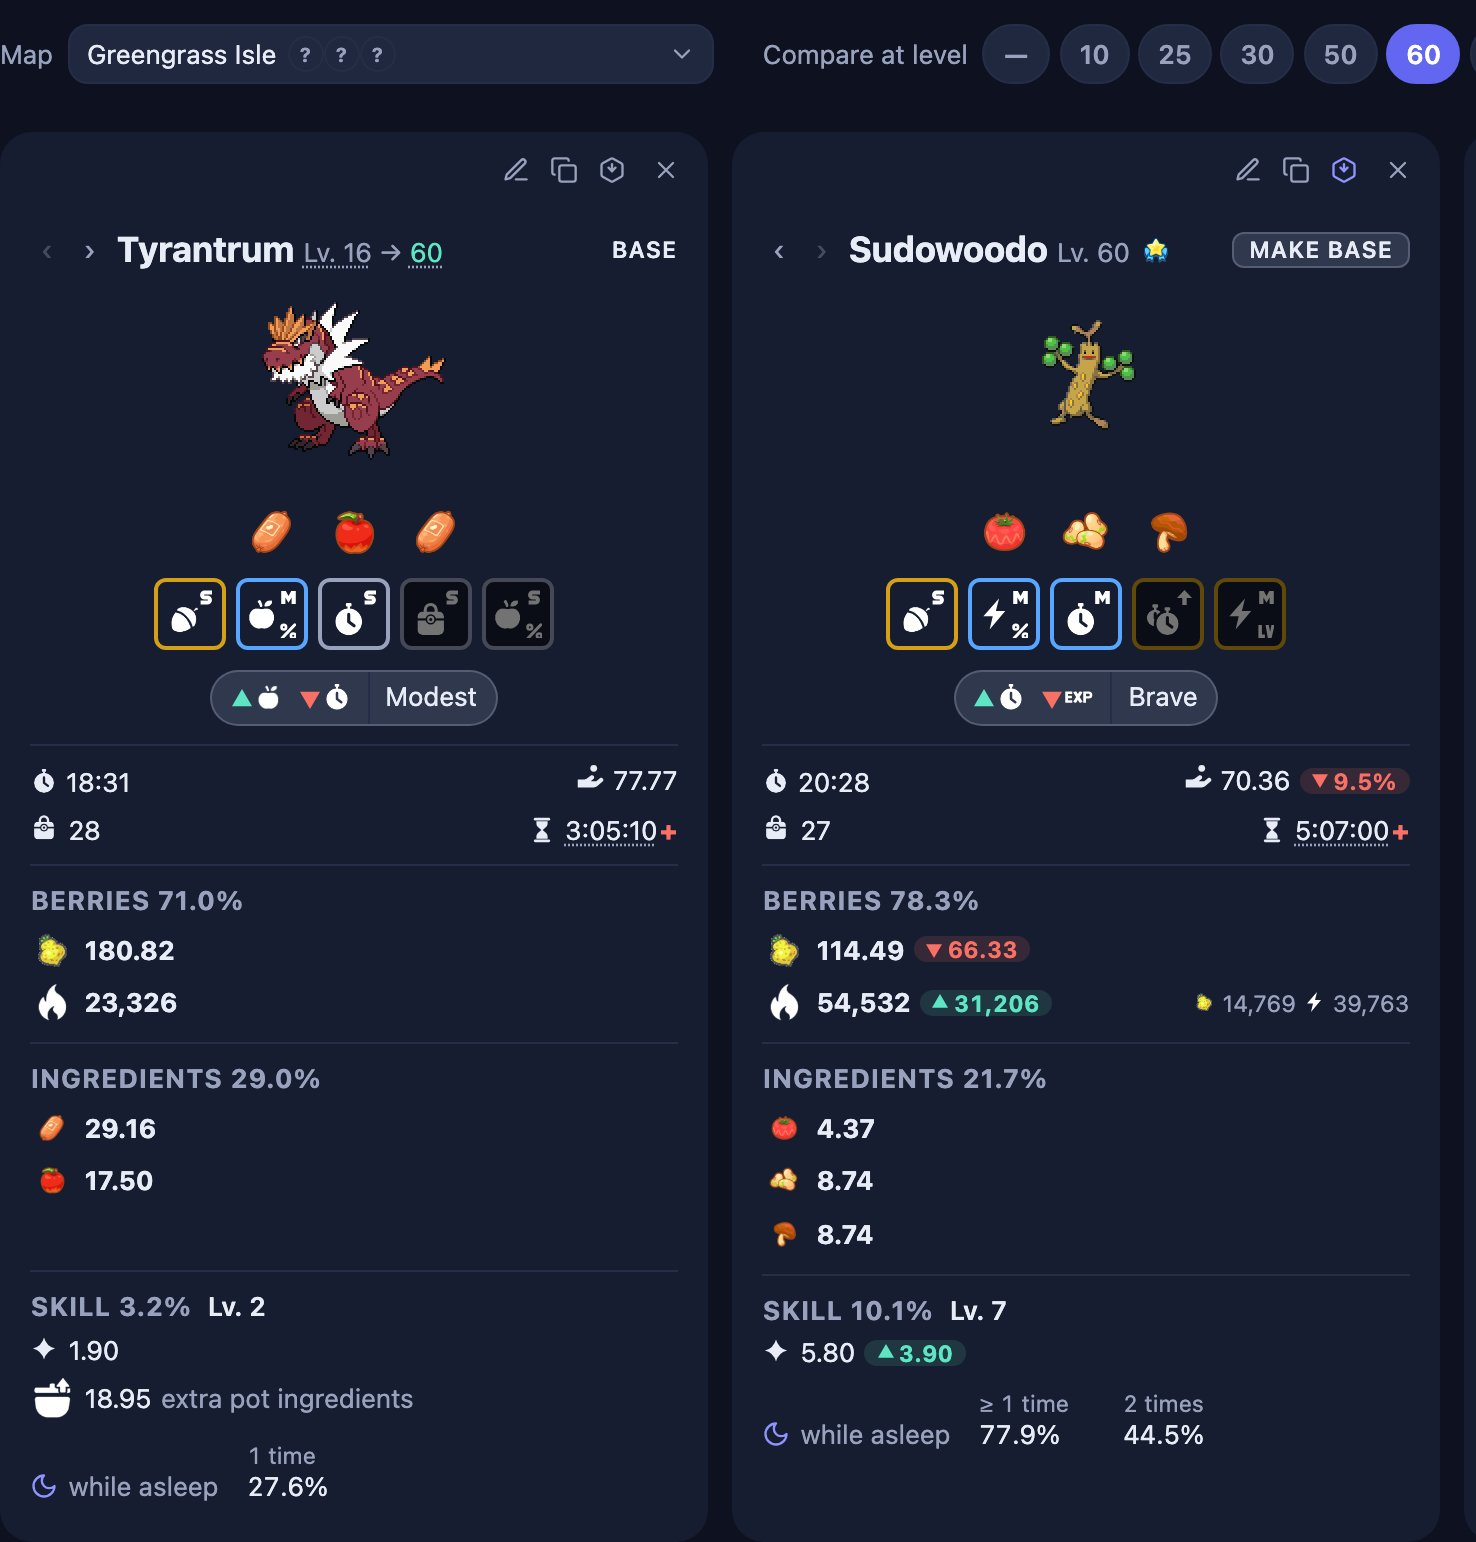
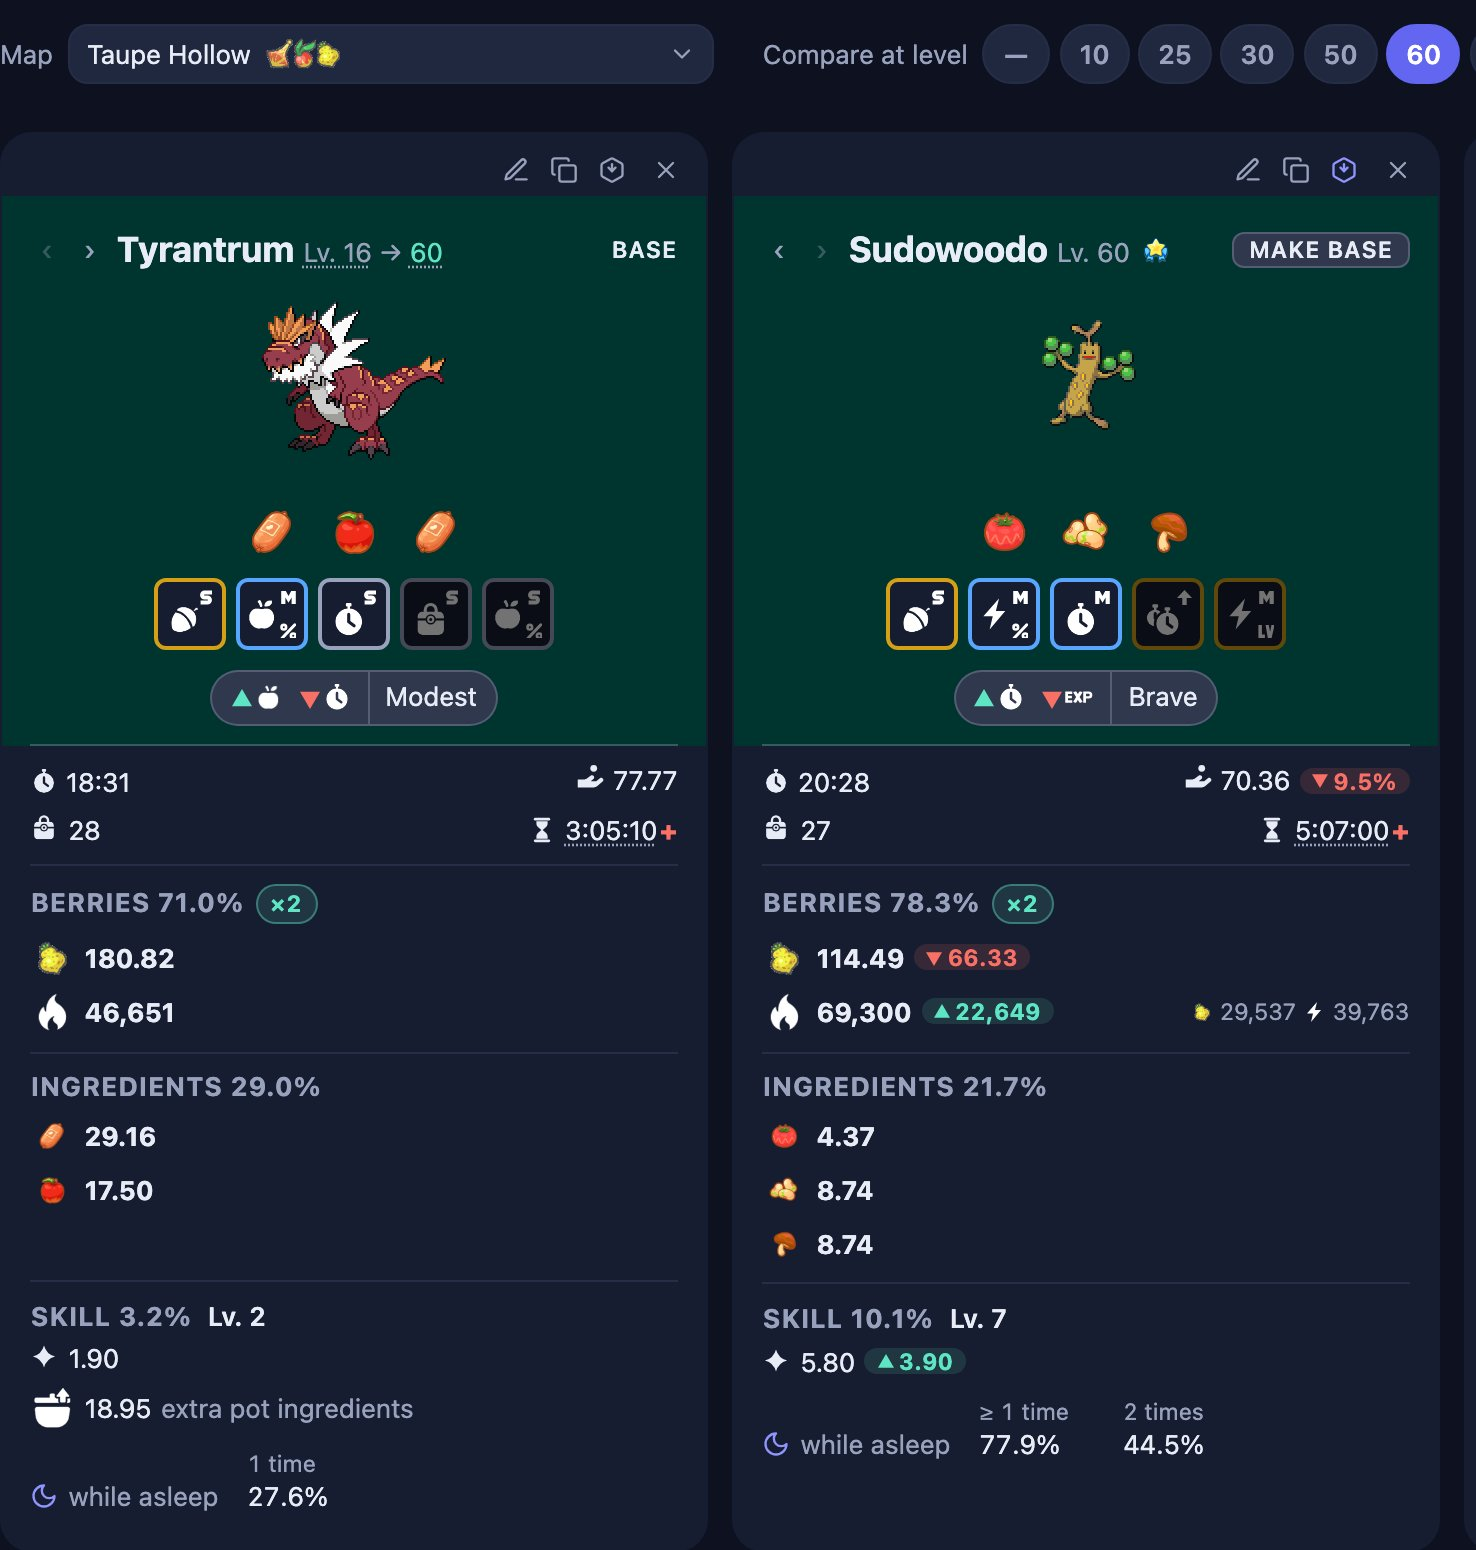
feat(landing): catch story compares on Taupe Hollow, where both share the berry (#134)

diff --git a/frontend/src/i18n/ui.ts b/frontend/src/i18n/ui.ts
@@ -743,8 +743,8 @@ export const UI: Record<Lang, Record<string, string>> = {
     "landing.catch.step.upload": "Subí las capturas",
     "landing.catch.step.evolve": "Evolucionalo",
     "landing.catch.step.pick": "Elegí uno de tu caja",
-    "landing.catch.step.compare": "Comparalos a nivel 60",
-    "landing.case.catch.alt": "Tyrantrum, cargado desde capturas y llevado a nivel 60, comparado con un Sudowoodo de tu caja",
+    "landing.catch.step.compare": "Comparalos en tu isla, a nivel 60",
+    "landing.case.catch.alt": "Tyrantrum, cargado desde capturas y llevado a nivel 60, comparado en Taupe Hollow con un Sudowoodo de tu caja",
     "landing.case.share.title": "Compartí con un link",
     "landing.case.share.body": "Tu amigo abre la misma comparación y la puede editar.",
     "landing.case.share.alt": "El diálogo para compartir una comparación",
@@ -1539,8 +1539,8 @@ export const UI: Record<Lang, Record<string, string>> = {
     "landing.catch.step.upload": "Upload the screenshots",
     "landing.catch.step.evolve": "Evolve it",
     "landing.catch.step.pick": "Pick one from your box",
-    "landing.catch.step.compare": "Compare them at level 60",
-    "landing.case.catch.alt": "Tyrantrum, loaded from screenshots and taken to level 60, compared with a Sudowoodo from your box",
+    "landing.catch.step.compare": "Compare them on your island, at level 60",
+    "landing.case.catch.alt": "Tyrantrum, loaded from screenshots and taken to level 60, compared on Taupe Hollow with a Sudowoodo from your box",
     "landing.case.share.title": "Share it with a link",
     "landing.case.share.body": "Your friend opens the same comparison and can edit it.",
     "landing.case.share.alt": "The dialog to share a comparison",
